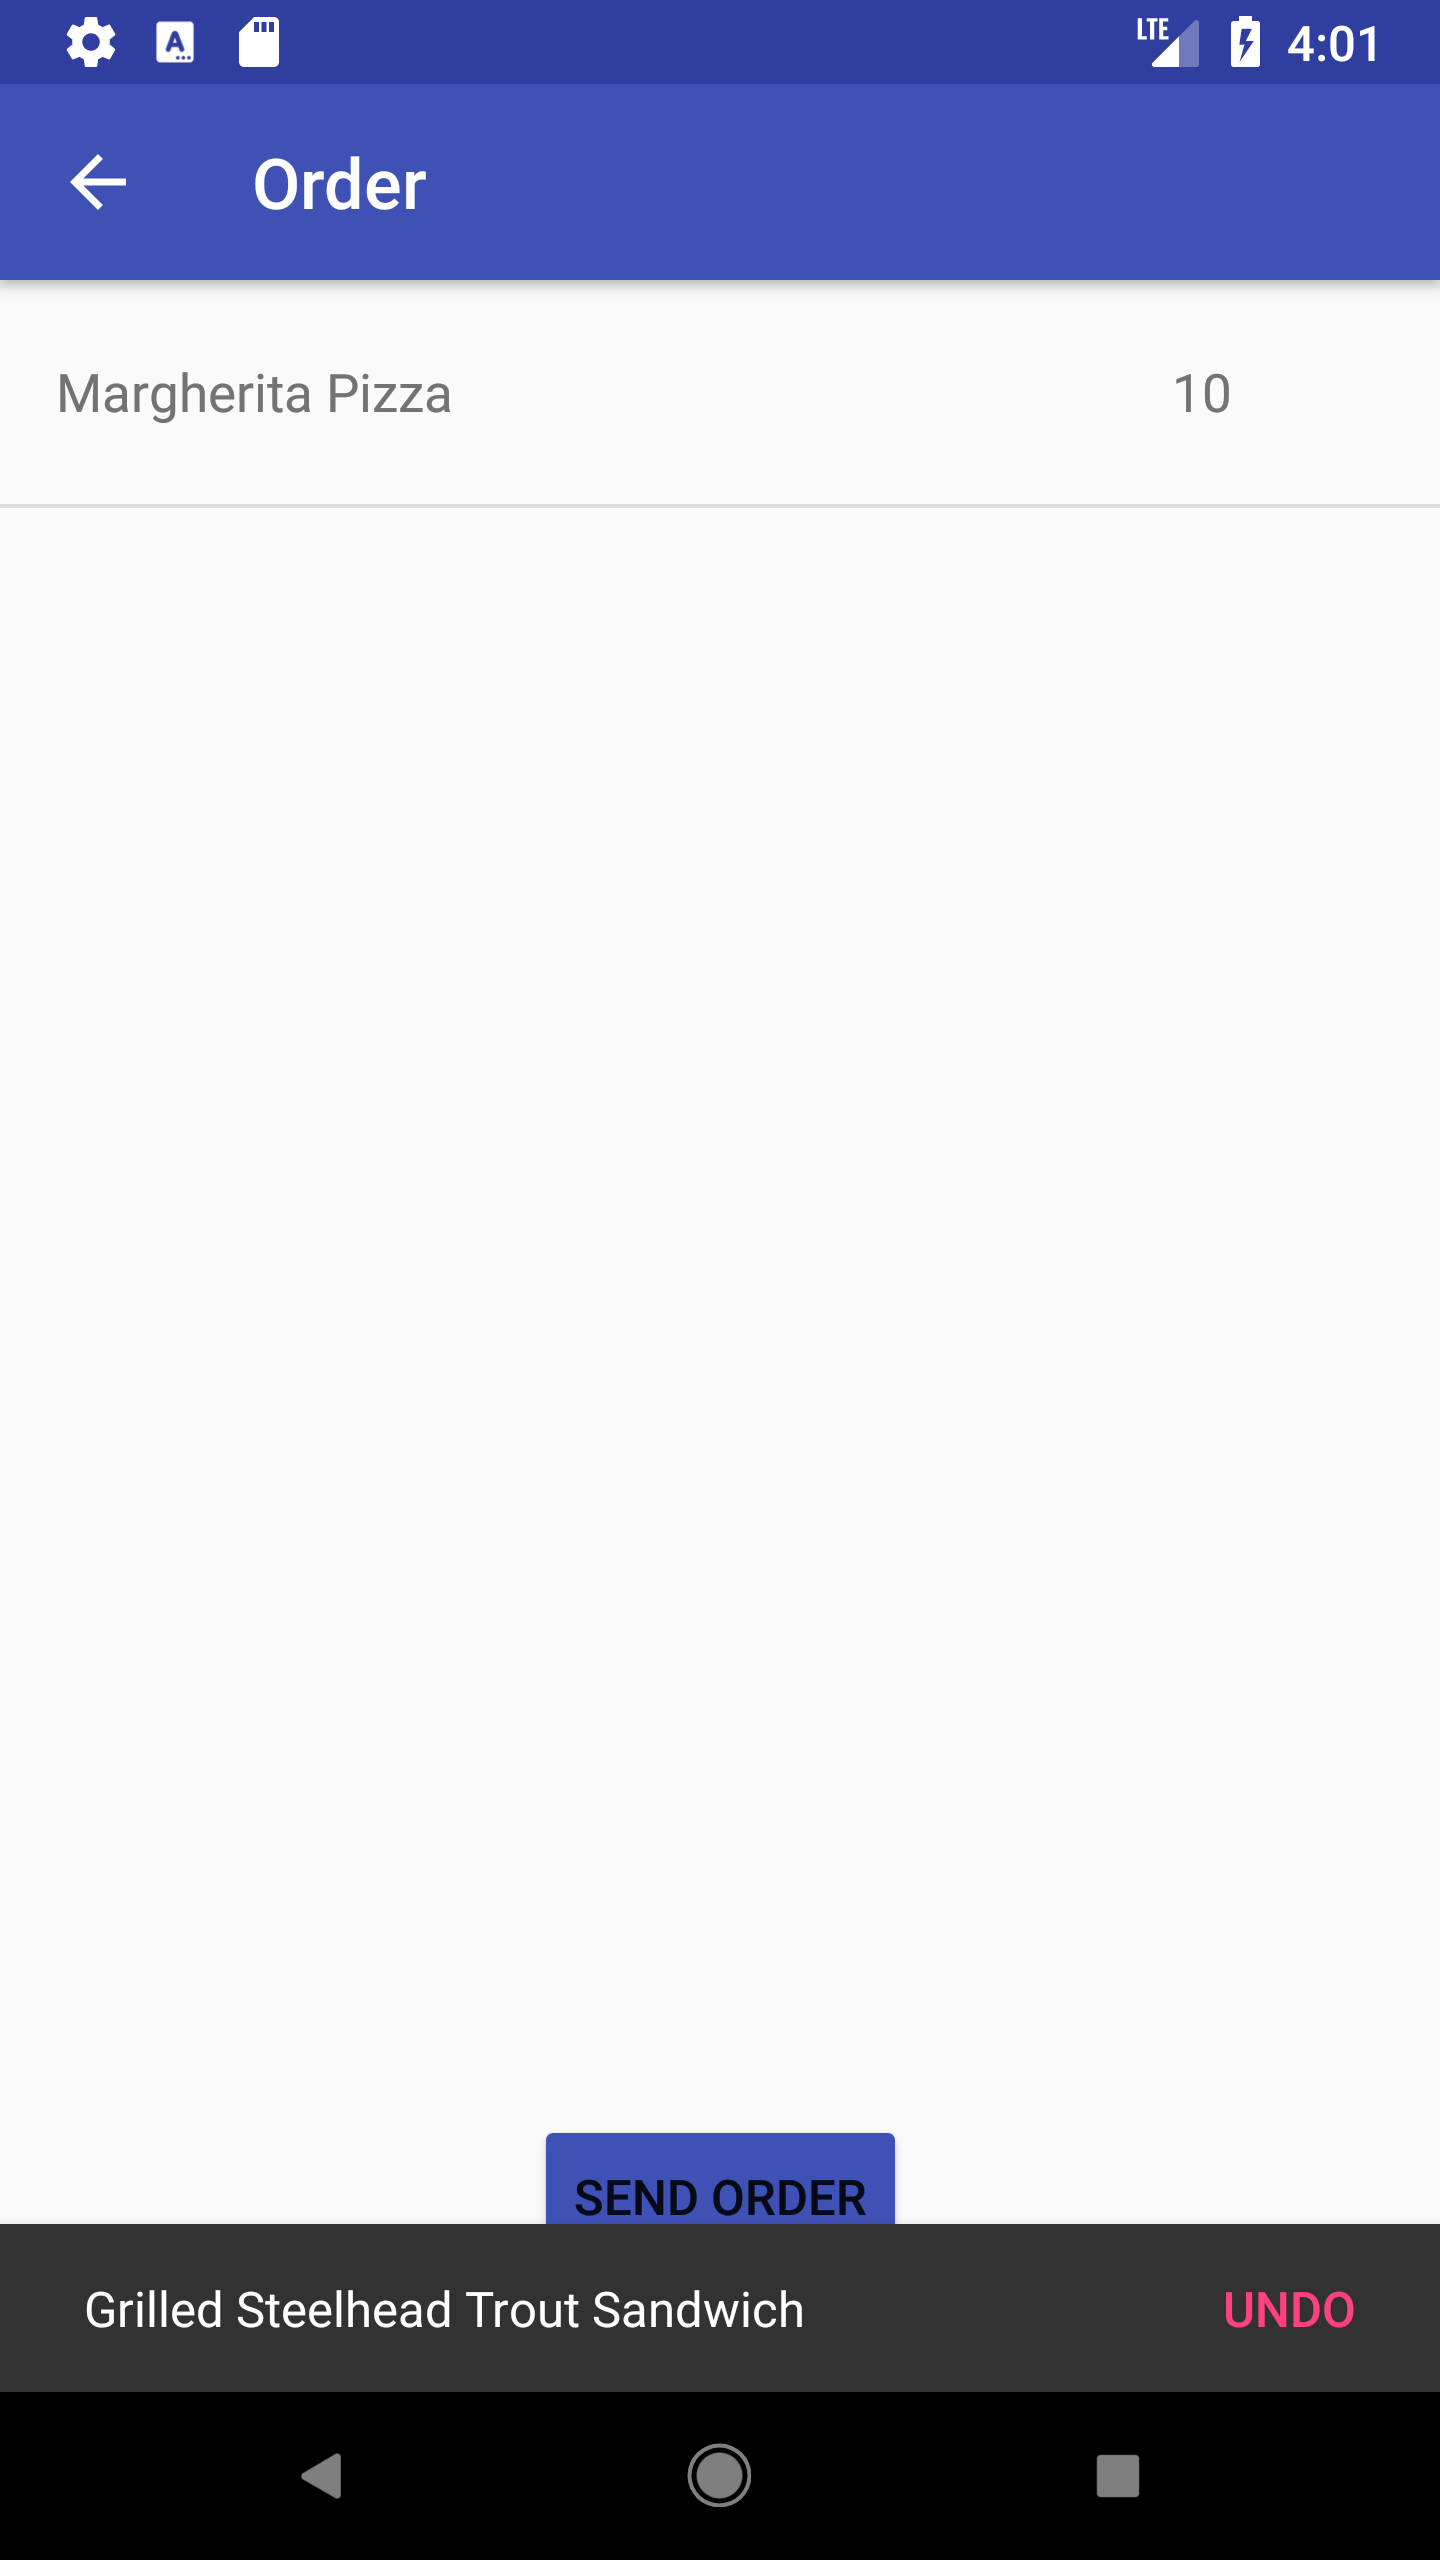
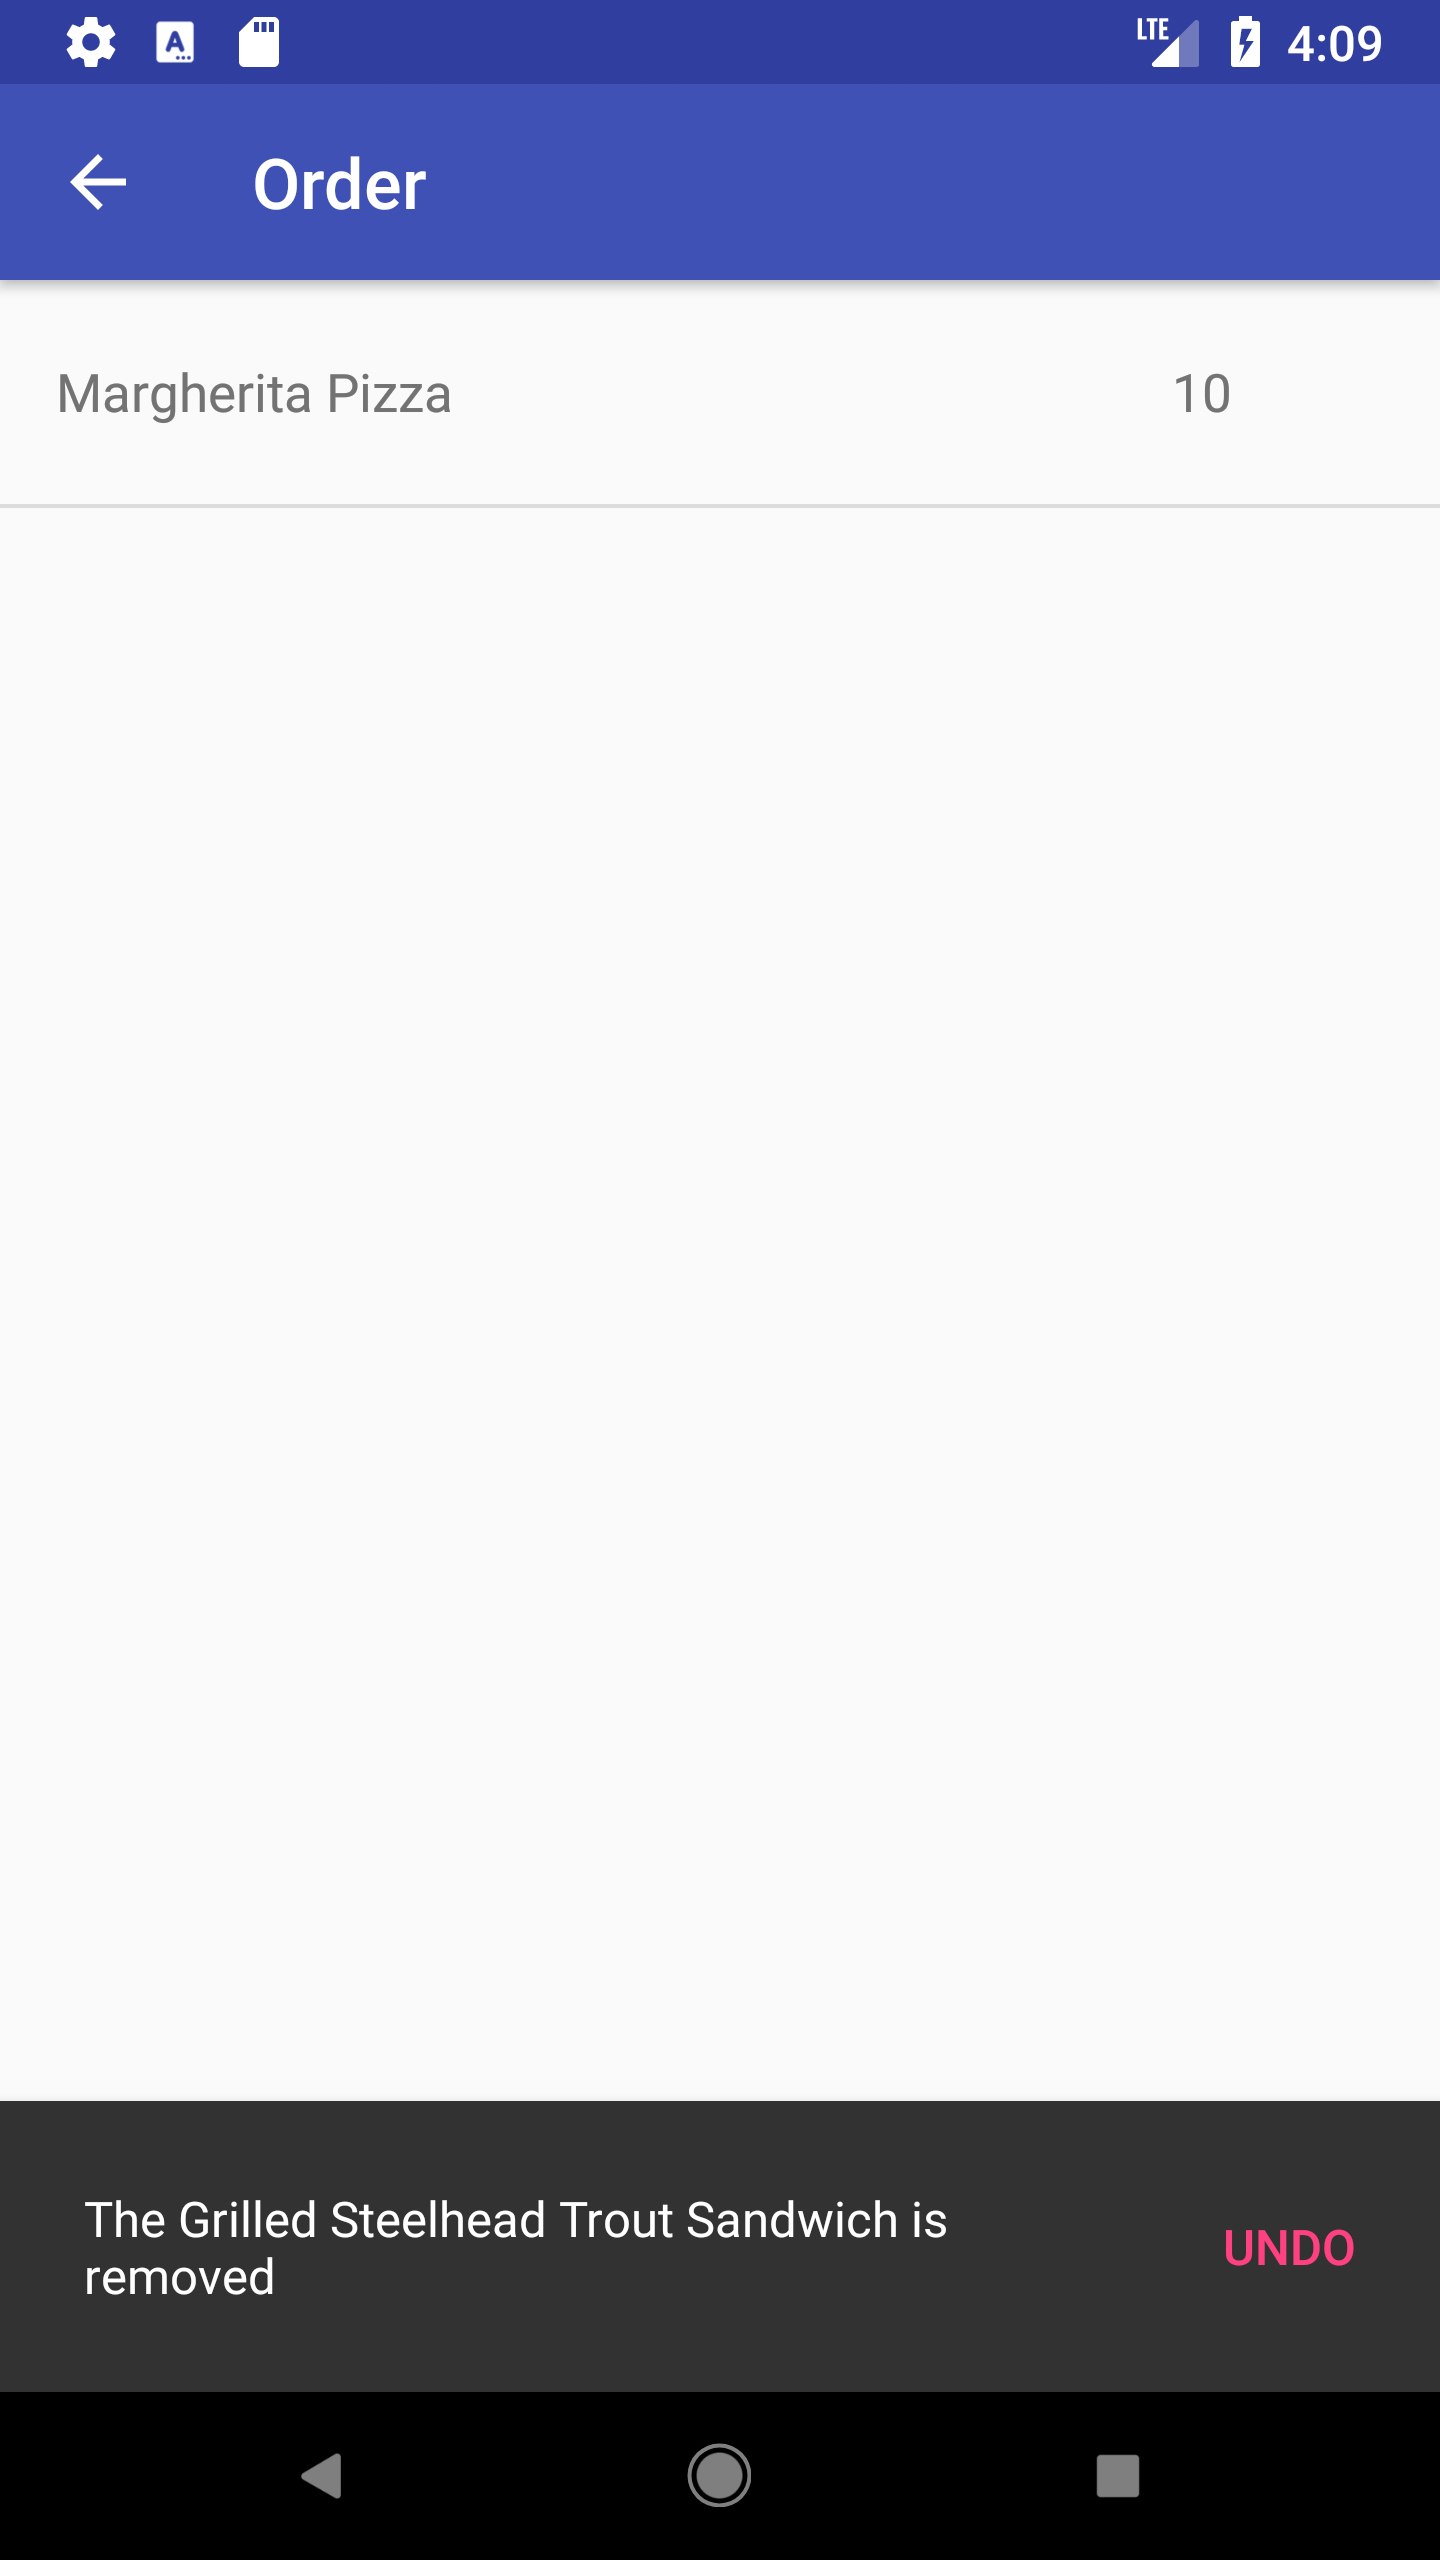
Update a string

Changed region(s): [[0.0, 0.8125, 1.0, 0.9062], [0.9375, 0.0, 0.9688, 0.0312]]

diff --git a/app/src/main/java/com/example/jelle/jellevannoord_pset3/OrderActivity.java b/app/src/main/java/com/example/jelle/jellevannoord_pset3/OrderActivity.java
@@ -96,9 +96,30 @@ public class OrderActivity extends AppCompatActivity {
                 editor.remove(item.getName());
                 editor.apply();
                 setListAdapter();
-                Snackbar.make(findViewById(R.id.constraintLayout), item.getName(), Snackbar.LENGTH_LONG).setAction("Undo", new MyUndoListener()).show();
+                Snackbar.make(findViewById(R.id.constraintLayout), "The " + item.getName() + " is removed", Snackbar.LENGTH_LONG).setAction("Undo", new MyUndoListener()).show();
             }
             return true;
+        }
+    }
+
+    private class MyUndoListener implements View.OnClickListener {
+
+        @Override
+        public void onClick(View v) {
+            Set<String> order = sharedPref.getStringSet("Order", null);
+            SharedPreferences.Editor editor = sharedPref.edit();
+            if(order.contains(lastDeleted.getName())) {
+                Snackbar.make(findViewById(R.id.constraintLayout), "The " + lastDeleted.getName() + " is already in your order", Snackbar.LENGTH_LONG)
+                        .setAction("Action", null).show();
+            } else {
+                order.add(lastDeleted.getName());
+                editor.putStringSet("Order",order);
+                editor.putInt(lastDeleted.getName(), lastDeleted.getPrice());
+                editor.apply();
+                setListAdapter();
+                Snackbar.make(findViewById(R.id.constraintLayout), "The " + lastDeleted.getName() + " is added to your order", Snackbar.LENGTH_LONG)
+                        .setAction("Action", null).show();
+            }
         }
     }
 
@@ -139,27 +160,6 @@ public class OrderActivity extends AppCompatActivity {
                 });
                 // Add the request to the RequestQueue.
                 queue.add(jsObjRequest);
-            }
-        }
-    }
-
-    private class MyUndoListener implements View.OnClickListener {
-
-        @Override
-        public void onClick(View v) {
-            Set<String> order = sharedPref.getStringSet("Order", null);
-            SharedPreferences.Editor editor = sharedPref.edit();
-            if(order.contains(lastDeleted.getName())) {
-                Snackbar.make(findViewById(R.id.constraintLayout), "The " + lastDeleted.getName() + " is already in your order", Snackbar.LENGTH_LONG)
-                        .setAction("Action", null).show();
-            } else {
-                order.add(lastDeleted.getName());
-                editor.putStringSet("Order",order);
-                editor.putInt(lastDeleted.getName(), lastDeleted.getPrice());
-                editor.apply();
-                setListAdapter();
-                Snackbar.make(findViewById(R.id.constraintLayout), "The " + lastDeleted.getName() + " is added to your order", Snackbar.LENGTH_LONG)
-                        .setAction("Action", null).show();
             }
         }
     }
